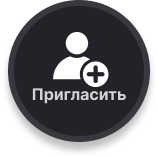
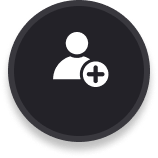
feat(client): add text labels to seat buttons

Changed region(s): [[0.2025, 0.557, 0.8101, 0.6582]]

diff --git a/client/src/components/GameProcess/SeatButton.tsx b/client/src/components/GameProcess/SeatButton.tsx
@@ -26,13 +26,32 @@ export function SeatButton({ type, position, onSitDown, onInvite, disabled, scal
   const baseHeight = type === 'sitdown' ? 90 : 71;
   
   const buttonClasses = `
-    transition-all duration-200 ease-in-out
+    relative transition-all duration-200 ease-in-out
     ${disabled ? 'opacity-50 cursor-not-allowed' : 'opacity-100 cursor-pointer hover:opacity-80'}
+    flex items-center justify-center
   `;
 
-  const imageStyle: React.CSSProperties = {
+  const containerStyle: React.CSSProperties = {
     width: `${baseWidth * scale}px`,
     height: `${baseHeight * scale}px`,
+  };
+
+  const sitDownTextStyle: React.CSSProperties = {
+    fontWeight: 600,
+    fontSize: `${13 * scale}px`,
+    lineHeight: '100%',
+    textAlign: 'center',
+    color: 'white',
+  };
+
+  const inviteTextStyle: React.CSSProperties = {
+    fontFamily: 'Inter, sans-serif',
+    fontWeight: 700,
+    fontSize: `${8 * scale}px`,
+    lineHeight: '100%',
+    textAlign: 'center',
+    color: 'white',
+    marginTop: `${15 * scale}px', // Position below center
   };
 
   return (
@@ -40,13 +59,16 @@ export function SeatButton({ type, position, onSitDown, onInvite, disabled, scal
       onClick={handleClick}
       className={buttonClasses}
       disabled={disabled}
+      style={containerStyle}
     >
       <img 
         src={type === 'sitdown' ? sitdownImage : inviteImage} 
         alt={type === 'sitdown' ? t('sit_down') : t('invite')} 
-        style={imageStyle}
-        className="object-contain"
+        className="absolute inset-0 w-full h-full object-contain"
       />
+      <div className="absolute" style={type === 'sitdown' ? sitDownTextStyle : inviteTextStyle}>
+        {type === 'sitdown' ? t('sit_down') : t('invite')}
+      </div>
     </button>
   );
 }
